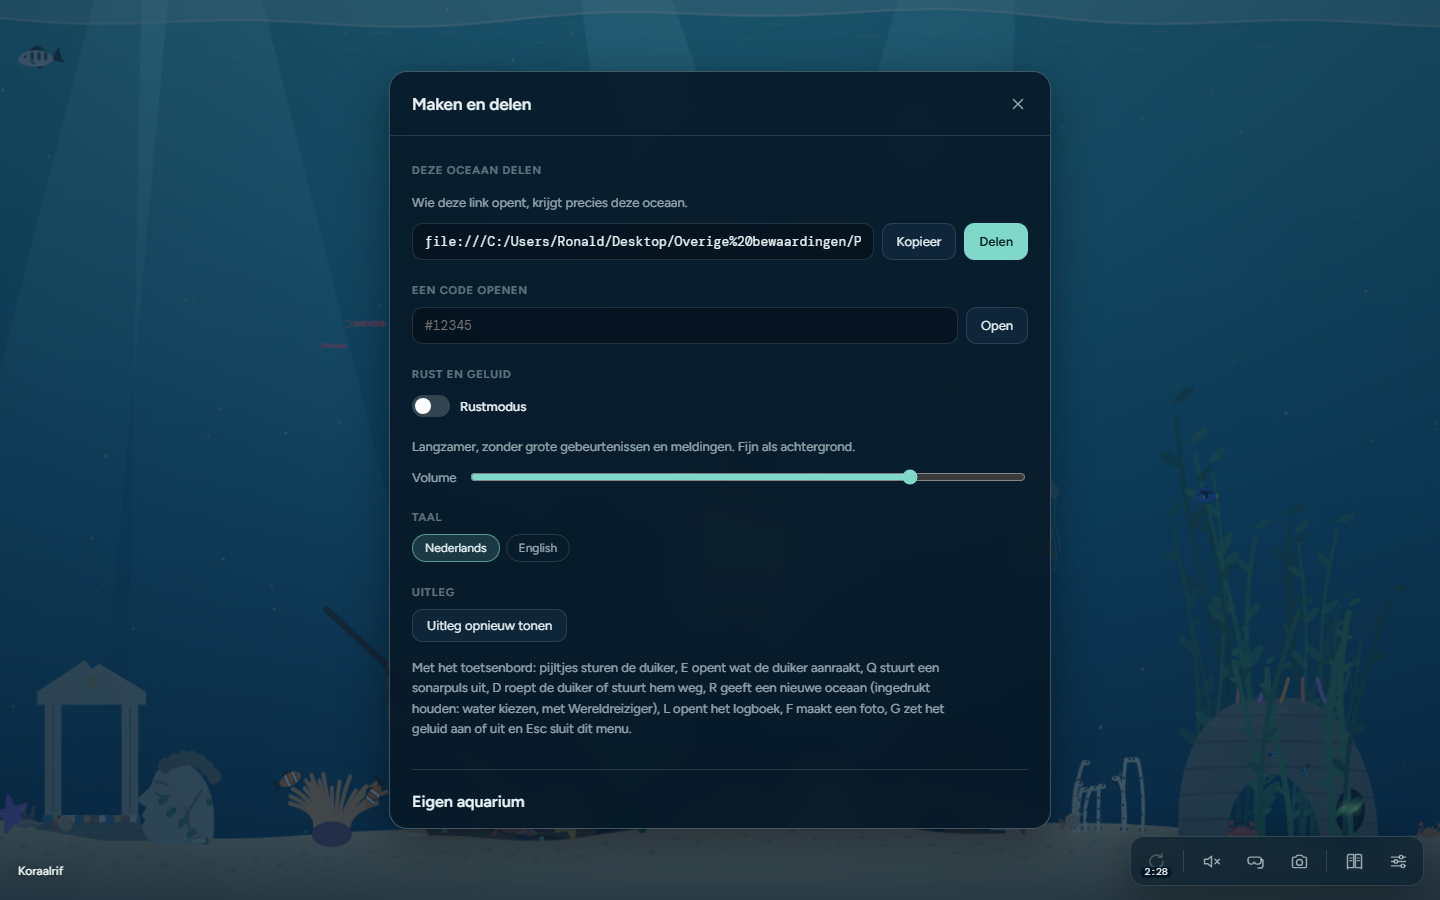
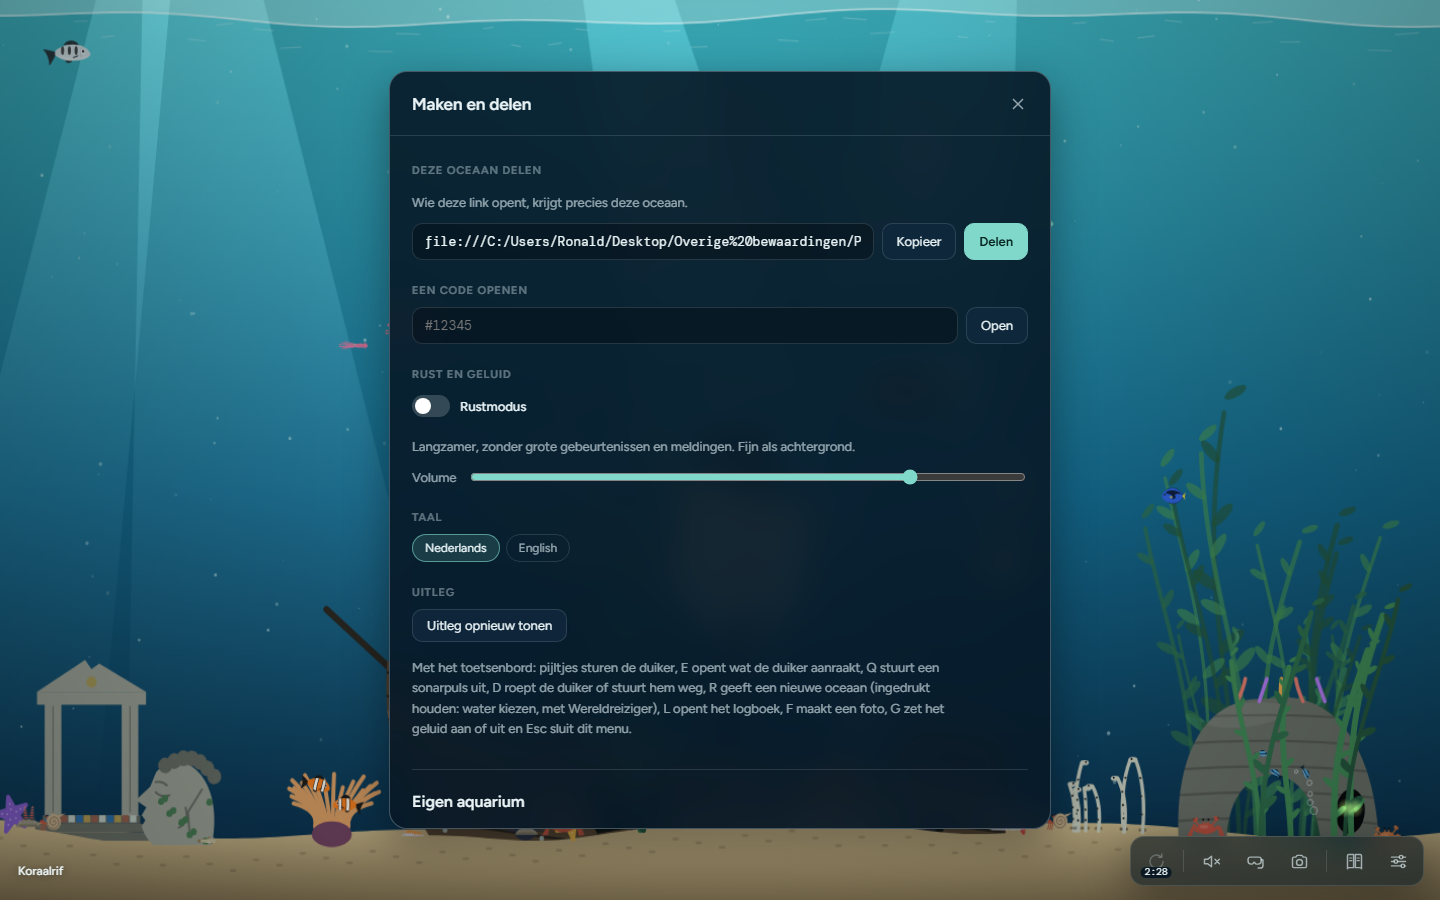
Duiklamp blijft klein; ijsbeer duikt na zijn sprong kort onder en komt weer boven; geen schaduw meer op de ijsschots

diff --git a/index.html b/index.html
@@ -1016,8 +1016,8 @@
   const MILESTONES = [
     tier("m10", "Ontdekker", "Explorer", 10, "elke 75 seconden een nieuwe oceaan", "a new ocean every 75 seconds"),
     tier("m25", "Zeekenner", "Sea expert", 25, "elke 30 seconden een nieuwe oceaan", "a new ocean every 30 seconds"),
-    tier("m50", "Oceanograaf", "Oceanographer", 50, "een echte zaklamp voor je duiker en elke 15 seconden een nieuwe oceaan", "a proper torch for your diver and a new ocean every 15 seconds"),
-    tier("m75", "Duikmeester", "Dive master", 75, "een fellere, bredere duiklamp en elke 7,5 seconden een nieuwe oceaan", "a brighter, wider diving lamp and a new ocean every 7.5 seconds"),
+    tier("m50", "Oceanograaf", "Oceanographer", 50, "elke 15 seconden een nieuwe oceaan", "a new ocean every 15 seconds"),
+    tier("m75", "Duikmeester", "Dive master", 75, "elke 7,5 seconden een nieuwe oceaan", "a new ocean every 7.5 seconds"),
     tier("m100", "Zeeheld", "Sea hero", 90, "gouden randjes in je logboek en elke 5 seconden een nieuwe oceaan", "golden edges in your logbook and a new ocean every 5 seconds"),
     { id: "mall", name: ["Meester van de zee", "Master of the sea"], goal: ["alles gevonden", "everything found"], prog: () => [foundCount(), BASE_LOG_KEYS.length], reward: ["elke seconde een nieuwe oceaan", "a new ocean every second"] },
     shinyTier("s1", "Eerste shiny", "First shiny", 1, "een belletje als er een shiny in beeld komt", "a little bell when a shiny comes into view"),
@@ -1188,9 +1188,8 @@
 
   // The diver's lamp: only what comes into its beam goes into the logbook. A brighter lamp reaches further.
   function lightCone() {
-    if (rewards.has("m75")) return { len: 340 * u, half: 0.62, near: 46 * u, level: 3 };
-    if (rewards.has("m50")) return { len: 240 * u, half: 0.46, near: 46 * u, level: 2 };
-    return { len: 150 * u, half: 0.32, near: 40 * u, level: 1 }; // the small headlamp you start with
+    // the diver keeps the small headlamp: finding things in its narrow beam is part of the challenge
+    return { len: 150 * u, half: 0.32, near: 40 * u, level: 1 };
   }
   function inBeam(x, y, r, ox, oy, th, len, half, nearR) {
     const dx = x - ox, dy = y - oy, d = Math.hypot(dx, dy);
@@ -10200,12 +10199,13 @@
         if (f.x > W - 80 * u) { f.dir = -1; f.vx = -1.6 * u; }
       }
     } else if (f.st === "jump") {
-      f.x += f.vx * k; f.vy += 0.12 * u * k; f.y += f.vy * k;
+      f.x += f.vx * k; if (!f.wet) f.vy += 0.12 * u * k; f.y += f.vy * k;
       if (!f.wet && f.y > waveY(f.x)) {
         f.wet = true; splash(f.x); splash(f.x - 10 * u); splash(f.x + 10 * u);
         for (let i = 0; i < 26; i++) bubbles.push({ x: f.x + (Math.random() - 0.5) * f.s * 0.8, y: waveY(f.x) + Math.random() * f.s * 0.6, r: (1 + Math.random() * 3) * u, ph: Math.random() * TAU });
       }
-      if (f.wet) { f.vy *= Math.pow(0.94, k); f.vx *= Math.pow(0.97, k); if (f.vy < 0.3 * u) f.st = "rise"; }
+      // under water it brakes hard: a short dive, not all the way to the bottom
+      if (f.wet) { f.vy *= Math.pow(0.95, k); f.vx *= Math.pow(0.97, k); if (f.vy < 0.3 * u) f.st = "rise"; }
       f.cy = f.y;
     } else if (f.st === "rise") {
       f.vy = Math.max(-1 * u, f.vy - 0.04 * u * k); f.x += f.vx * k; f.vx *= Math.pow(0.99, k); f.y += f.vy * k;
@@ -10230,20 +10230,10 @@
     // water streams off its fur
     if (Math.random() < 0.3) ripples.push({ x: f.x + (Math.random() - 0.5) * s * 0.3, r: 1, a: 0.5 });
   }
-  // seen from under the water: the bear climbing out over the edge, and its shadow walking on the floe
+  // seen from under the water: the bear climbing out over the edge of the floe
   function drawIceWalkers() {
     if (!water.ice) return;
-    for (const f of scene.fauna || []) {
-      if (f.key === "polarbear" && f.st === "climb" && f.cy !== undefined) shinyDraw(f, () => drawBearClimb(f));
-      if (f.key !== "polarbear" || f.st !== "ice" || !f.floe) continue;
-      const top = waveY(f.x) - 4 * u + (f.floe.dip || 0), y = top + f.floe.d * 0.3, s = f.s;
-      ctx.save(); ctx.translate(f.x, y); ctx.scale(f.dir, 1);
-      ctx.fillStyle = "rgba(40,70,90,0.22)";
-      ctx.beginPath(); ctx.ellipse(0, 0, s * 0.42, s * 0.1, 0, 0, TAU); ctx.fill();
-      ctx.beginPath(); ctx.ellipse(s * 0.42, -s * 0.02, s * 0.12, s * 0.07, 0, 0, TAU); ctx.fill();
-      for (const [lx, p] of [[0.25, 0], [0.12, Math.PI], [-0.2, Math.PI], [-0.32, 0]]) { ctx.beginPath(); ctx.ellipse(s * lx + Math.sin(f.ph * 4 + p) * s * 0.04, s * 0.08, s * 0.05, s * 0.035, 0, 0, TAU); ctx.fill(); }
-      ctx.restore();
-    }
+    for (const f of scene.fauna || []) if (f.key === "polarbear" && f.st === "climb" && f.cy !== undefined) shinyDraw(f, () => drawBearClimb(f));
   }
   FAUNA.polarbear.move = moveBear;
   FAUNA.polarbear.draw = drawBearAll;
@@ -12920,7 +12910,7 @@
       bar.append(text, btn);
       document.body.appendChild(bar);
     });
-    addEventListener("load", () => navigator.serviceWorker.register("sw.js?v=63").catch(() => {}));
+    addEventListener("load", () => navigator.serviceWorker.register("sw.js?v=64").catch(() => {}));
   }
 </script>
 </body>

diff --git a/src/11-x4-wave6.js b/src/11-x4-wave6.js
@@ -956,12 +956,13 @@
         if (f.x > W - 80 * u) { f.dir = -1; f.vx = -1.6 * u; }
       }
     } else if (f.st === "jump") {
-      f.x += f.vx * k; f.vy += 0.12 * u * k; f.y += f.vy * k;
+      f.x += f.vx * k; if (!f.wet) f.vy += 0.12 * u * k; f.y += f.vy * k;
       if (!f.wet && f.y > waveY(f.x)) {
         f.wet = true; splash(f.x); splash(f.x - 10 * u); splash(f.x + 10 * u);
         for (let i = 0; i < 26; i++) bubbles.push({ x: f.x + (Math.random() - 0.5) * f.s * 0.8, y: waveY(f.x) + Math.random() * f.s * 0.6, r: (1 + Math.random() * 3) * u, ph: Math.random() * TAU });
       }
-      if (f.wet) { f.vy *= Math.pow(0.94, k); f.vx *= Math.pow(0.97, k); if (f.vy < 0.3 * u) f.st = "rise"; }
+      // under water it brakes hard: a short dive, not all the way to the bottom
+      if (f.wet) { f.vy *= Math.pow(0.95, k); f.vx *= Math.pow(0.97, k); if (f.vy < 0.3 * u) f.st = "rise"; }
       f.cy = f.y;
     } else if (f.st === "rise") {
       f.vy = Math.max(-1 * u, f.vy - 0.04 * u * k); f.x += f.vx * k; f.vx *= Math.pow(0.99, k); f.y += f.vy * k;
@@ -986,20 +987,10 @@
     // water streams off its fur
     if (Math.random() < 0.3) ripples.push({ x: f.x + (Math.random() - 0.5) * s * 0.3, r: 1, a: 0.5 });
   }
-  // seen from under the water: the bear climbing out over the edge, and its shadow walking on the floe
+  // seen from under the water: the bear climbing out over the edge of the floe
   function drawIceWalkers() {
     if (!water.ice) return;
-    for (const f of scene.fauna || []) {
-      if (f.key === "polarbear" && f.st === "climb" && f.cy !== undefined) shinyDraw(f, () => drawBearClimb(f));
-      if (f.key !== "polarbear" || f.st !== "ice" || !f.floe) continue;
-      const top = waveY(f.x) - 4 * u + (f.floe.dip || 0), y = top + f.floe.d * 0.3, s = f.s;
-      ctx.save(); ctx.translate(f.x, y); ctx.scale(f.dir, 1);
-      ctx.fillStyle = "rgba(40,70,90,0.22)";
-      ctx.beginPath(); ctx.ellipse(0, 0, s * 0.42, s * 0.1, 0, 0, TAU); ctx.fill();
-      ctx.beginPath(); ctx.ellipse(s * 0.42, -s * 0.02, s * 0.12, s * 0.07, 0, 0, TAU); ctx.fill();
-      for (const [lx, p] of [[0.25, 0], [0.12, Math.PI], [-0.2, Math.PI], [-0.32, 0]]) { ctx.beginPath(); ctx.ellipse(s * lx + Math.sin(f.ph * 4 + p) * s * 0.04, s * 0.08, s * 0.05, s * 0.035, 0, 0, TAU); ctx.fill(); }
-      ctx.restore();
-    }
+    for (const f of scene.fauna || []) if (f.key === "polarbear" && f.st === "climb" && f.cy !== undefined) shinyDraw(f, () => drawBearClimb(f));
   }
   FAUNA.polarbear.move = moveBear;
   FAUNA.polarbear.draw = drawBearAll;

diff --git a/src/01-basis.js b/src/01-basis.js
@@ -522,8 +522,8 @@
   const MILESTONES = [
     tier("m10", "Ontdekker", "Explorer", 10, "elke 75 seconden een nieuwe oceaan", "a new ocean every 75 seconds"),
     tier("m25", "Zeekenner", "Sea expert", 25, "elke 30 seconden een nieuwe oceaan", "a new ocean every 30 seconds"),
-    tier("m50", "Oceanograaf", "Oceanographer", 50, "een echte zaklamp voor je duiker en elke 15 seconden een nieuwe oceaan", "a proper torch for your diver and a new ocean every 15 seconds"),
-    tier("m75", "Duikmeester", "Dive master", 75, "een fellere, bredere duiklamp en elke 7,5 seconden een nieuwe oceaan", "a brighter, wider diving lamp and a new ocean every 7.5 seconds"),
+    tier("m50", "Oceanograaf", "Oceanographer", 50, "elke 15 seconden een nieuwe oceaan", "a new ocean every 15 seconds"),
+    tier("m75", "Duikmeester", "Dive master", 75, "elke 7,5 seconden een nieuwe oceaan", "a new ocean every 7.5 seconds"),
     tier("m100", "Zeeheld", "Sea hero", 90, "gouden randjes in je logboek en elke 5 seconden een nieuwe oceaan", "golden edges in your logbook and a new ocean every 5 seconds"),
     { id: "mall", name: ["Meester van de zee", "Master of the sea"], goal: ["alles gevonden", "everything found"], prog: () => [foundCount(), BASE_LOG_KEYS.length], reward: ["elke seconde een nieuwe oceaan", "a new ocean every second"] },
     shinyTier("s1", "Eerste shiny", "First shiny", 1, "een belletje als er een shiny in beeld komt", "a little bell when a shiny comes into view"),

diff --git a/src/02-scene.js b/src/02-scene.js
@@ -12,9 +12,8 @@
 
   // The diver's lamp: only what comes into its beam goes into the logbook. A brighter lamp reaches further.
   function lightCone() {
-    if (rewards.has("m75")) return { len: 340 * u, half: 0.62, near: 46 * u, level: 3 };
-    if (rewards.has("m50")) return { len: 240 * u, half: 0.46, near: 46 * u, level: 2 };
-    return { len: 150 * u, half: 0.32, near: 40 * u, level: 1 }; // the small headlamp you start with
+    // the diver keeps the small headlamp: finding things in its narrow beam is part of the challenge
+    return { len: 150 * u, half: 0.32, near: 40 * u, level: 1 };
   }
   function inBeam(x, y, r, ox, oy, th, len, half, nearR) {
     const dx = x - ox, dy = y - oy, d = Math.hypot(dx, dy);

diff --git a/sw.js b/sw.js
@@ -1,5 +1,5 @@
 // Service worker: maakt de oceaan installeerbaar en speelbaar zonder internet.
-const VERSION = "v63";
+const VERSION = "v64";
 const SHELL = `oceaan-shell-${VERSION}`;
 const FONTS = "oceaan-fonts-1";
 const SHELL_FILES = ["./", "index.html", "manifest.webmanifest", "icons/icon-192.png", "icons/icon-512.png", "icons/apple-touch-icon.png"];
